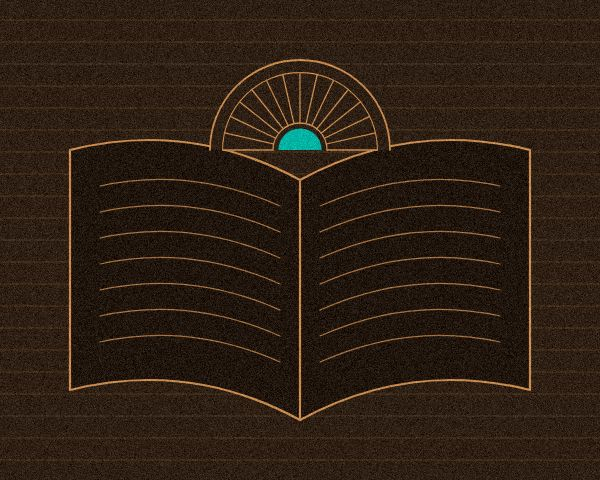
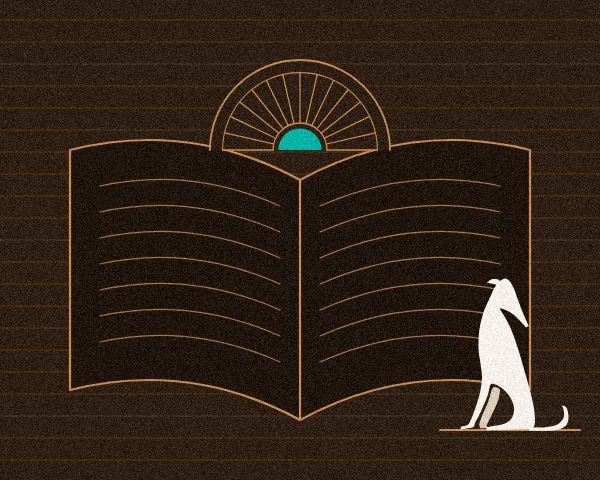
Add files via upload

diff --git a/infos.html b/infos.html
@@ -129,21 +129,22 @@
       <ul class="bildnachweis">
         <li>opener-muster.webp (Startseite: sitzender Windhund im Strahlenkreis): eigene Grafik, KI-gestützt mit Claude Code</li>
         <li>banner-programm.webp, banner-story.jpg, banner-tickets.webp, banner-infos.jpg (Muster der Unterseiten): eigene Grafiken, KI-gestützt mit Claude Code</li>
-        <li>karte-lesung.jpg, karte-musik.webp, karte-salon.webp (Bildkarten, Salon mit sitzendem Windhund): eigene Grafiken, KI-gestützt mit Claude Code</li>
-        <li>muster-chevron.jpg, muster-schuppen.webp (Galerie): eigene Muster, KI-gestützt mit Claude Code</li>
+        <li>karte-lesung.jpg, karte-musik.webp, karte-salon.webp (Bildkarten mit Windhunden): eigene Grafiken, KI-gestützt mit Claude Code</li>
+        <li>muster-chevron.jpg (rennender Windhund), muster-schuppen.webp (Galerie): eigene Muster, KI-gestützt mit Claude Code</li>
         <li>strahlen.gif (animierte Strahlen mit Windhund): eigene Animation, KI-gestützt mit Claude Code</li>
-        <li>medaillon.png (freigestelltes Medaillon): eigene Grafik, KI-gestützt mit Claude Code</li>
+        <li>medaillon.png (freigestelltes Medaillon mit springendem Windhund): eigene Grafik, KI-gestützt mit Claude Code</li>
         <li>trio-geometrie.webp (geometrisches Plakat): eigene Grafik, KI-gestützt mit Claude Code</li>
         <li>buchcover-windhund.webp (Buchcover eines erfundenen Romans): eigene Grafik, KI-gestützt mit Claude Code</li>
         <li>palais-eilbek.jpg (Fassade eines erfundenen Gebäudes): eigene Grafik, KI-gestützt mit Claude Code</li>
         <li>eintrittskarte.webp (Ticket) und anfahrt-karte.jpg (vereinfachter Lageplan): eigene Grafiken, KI-gestützt mit Claude Code</li>
         <li>og-pfoten-poesie.jpg (Vorschaubild beim Teilen): eigene Grafik, KI-gestützt mit Claude Code</li>
-        <li>Windhund-Silhouetten (stehend und sitzend): eigene Zeichnung als SVG-Pfad, KI-gestützt mit Claude Code nach Posen-Vorlagen</li>
-        <li>Logo, Favicon, Icons, Ornament, Fächer, Rahmen, Fächertapete und Filmkorn (SVG): eigene Vektorgrafiken, KI-gestützt mit Claude Code</li>
+        <li>Windhund-Silhouetten (stehend, sitzend, im Sprint und im Sprung): eigene Zeichnungen als SVG-Pfad, KI-gestützt mit Claude Code nach Posen-Vorlagen</li>
+        <li>Logo, Favicon, Icons, Rahmen, Fächertapete, Filmkorn und Laufband mit rennenden Windhunden (SVG): eigene Vektorgrafiken, KI-gestützt mit Claude Code</li>
       </ul>
     </div>
   </section>
 </main>
+<div class="fries" aria-hidden="true"></div>
 <footer class="seitenfuss">
   <div class="inhalt">
     <p class="fuss-logo" aria-hidden="true">Pfoten <span>&amp;</span> Poesie</p>

diff --git a/index.html b/index.html
@@ -105,7 +105,7 @@
         <h2 id="akte-titel" class="titel-klein">Ein Abend in drei Akten</h2>
         <div class="karten-drei">
           <article class="bildkarte">
-            <img src="img/karte-lesung.jpg" alt="Art-déco-Muster: ein aufgeschlagenes Buch aus Kupferlinien unter einem halben Fächer." width="600" height="480" loading="lazy">
+            <img src="img/karte-lesung.jpg" alt="Ein aufgeschlagenes Buch aus Kupferlinien unter einem halben Fächer, daneben sitzt ein kleiner heller Windhund." width="600" height="480" loading="lazy">
             <div class="bildkarte-text">
               <h3>Die Lesung</h3>
               <p class="von">mit Margarete Lindqvist</p>
@@ -113,7 +113,7 @@
             </div>
           </article>
           <article class="bildkarte">
-            <img src="img/karte-musik.webp" alt="Art-déco-Muster: konzentrische Kreise wie eine Schallplatte, mit kupferner Mitte und Tonarm." width="600" height="480" loading="lazy">
+            <img src="img/karte-musik.webp" alt="Eine Schallplatte aus konzentrischen Kreisen mit Tonarm, davor lauscht ein stehender Windhund mit erhobenem Kopf." width="600" height="480" loading="lazy">
             <div class="bildkarte-text">
               <h3>Die Musik</h3>
               <p class="von">vom Lindenblatt-Trio</p>
@@ -135,6 +135,8 @@
       <p class="datum-klammer">( <time datetime="2027-06-12">12.06.2027</time> )</p>
     </div>
   </section>
+
+  <div class="fries" aria-hidden="true"></div>
 
   <section class="abschnitt" aria-labelledby="warum">
     <div class="inhalt editorial">
@@ -187,8 +189,8 @@
       <p class="praesentiert">Präsentiert vom<br>Kulturverein Eilbek</p>
       <div class="galerie">
         <figure>
-          <img src="img/muster-chevron.jpg" alt="Muster: kupferne Zickzack-Linien auf dunklem Türkis." width="500" height="640" loading="lazy">
-          <figcaption>Zickzack wie ein Swing-Rhythmus</figcaption>
+          <img src="img/muster-chevron.jpg" alt="Ein heller Windhund rennt über kupferne Zickzack-Linien auf dunklem Türkis." width="500" height="640" loading="lazy">
+          <figcaption>Im Galopp zum Salon</figcaption>
         </figure>
         <figure>
           <img src="img/strahlen.gif" alt="Animiertes Bild: Ein Windhund steht mit erhobenem Kopf unter einem Bogen, hinter ihm leuchten Strahlen nacheinander auf." width="400" height="400" loading="lazy">
@@ -212,6 +214,7 @@
     </div>
   </section>
 </main>
+<div class="fries" aria-hidden="true"></div>
 <footer class="seitenfuss">
   <div class="inhalt">
     <p class="fuss-logo" aria-hidden="true">Pfoten <span>&amp;</span> Poesie</p>

diff --git a/404.html b/404.html
@@ -36,7 +36,7 @@
     <div class="inhalt">
       <p class="meta">Fehler 404</p>
       <h1 id="titel">Diese Seite ist <span class="skript">entlaufen</span></h1>
-      <img src="svg/hund-404.svg" alt="Ein sitzender Windhund unter einem Art-déco-Bogen senkt den Kopf, als würde er etwas suchen." width="400" height="320">
+      <img src="svg/hund-404.svg" alt="Ein Windhund rennt aus einem leeren Art-déco-Bogen davon." width="400" height="320">
       <p>Hier ist leider nichts. Vielleicht hat ein Hund die Seite vergraben, vielleicht hat sich in der Adresse ein Tippfehler eingeschlichen.</p>
       <h2 class="titel-klein">So findest du zurück</h2>
       <div class="knopfreihe">
@@ -46,6 +46,7 @@
     </div>
   </section>
 </main>
+<div class="fries" aria-hidden="true"></div>
 <footer class="seitenfuss">
   <div class="inhalt">
     <p class="fuss-logo" aria-hidden="true">Pfoten <span>&amp;</span> Poesie</p>

diff --git a/programm.html b/programm.html
@@ -134,11 +134,12 @@
         <p>An der Wassernapf-Bar steht immer frisches Wasser bereit. Die Kuschelloge ist abgedunkelt und mit Decken ausgelegt, dort darf jeder Hund in Ruhe schlafen.</p>
       </div>
       <figure>
-        <img src="img/medaillon.png" alt="Rundes Art-déco-Medaillon mit Fächer, Strahlenkranz und Zickzack-Band, freigestellt." width="600" height="600" loading="lazy">
+        <img src="img/medaillon.png" alt="Rundes Art-déco-Medaillon: Ein Windhund springt über einen Fächer mit türkiser Halbsonne, freigestellt." width="600" height="600" loading="lazy">
       </figure>
     </div>
   </section>
 </main>
+<div class="fries" aria-hidden="true"></div>
 <footer class="seitenfuss">
   <div class="inhalt">
     <p class="fuss-logo" aria-hidden="true">Pfoten <span>&amp;</span> Poesie</p>

diff --git a/css/style.css b/css/style.css
@@ -1271,3 +1271,18 @@ body::after {
   img { max-width: 50% !important; box-shadow: none !important; }
   .abschnitt { padding-block: 1rem; }
 }
+
+/* ---------- Laufband mit rennenden Windhunden (Eye Candy) ---------- */
+.fries {
+  height: 64px;
+  background: var(--dunkel-tief) url("../svg/fries-windhunde.svg") 0 0 / 384px 64px repeat-x;
+  border-block: 1px solid var(--linie-zart);
+  animation: laufband 7s linear infinite;
+}
+@keyframes laufband { to { background-position: -384px 0; } }
+@media (prefers-reduced-motion: reduce) {
+  .fries { animation: none; }
+}
+@media print {
+  .fries { display: none; }
+}

diff --git a/story.html b/story.html
@@ -120,6 +120,7 @@
     </div>
   </section>
 </main>
+<div class="fries" aria-hidden="true"></div>
 <footer class="seitenfuss">
   <div class="inhalt">
     <p class="fuss-logo" aria-hidden="true">Pfoten <span>&amp;</span> Poesie</p>

diff --git a/tickets.html b/tickets.html
@@ -170,6 +170,7 @@
     </div>
   </section>
 </main>
+<div class="fries" aria-hidden="true"></div>
 <footer class="seitenfuss">
   <div class="inhalt">
     <p class="fuss-logo" aria-hidden="true">Pfoten <span>&amp;</span> Poesie</p>
